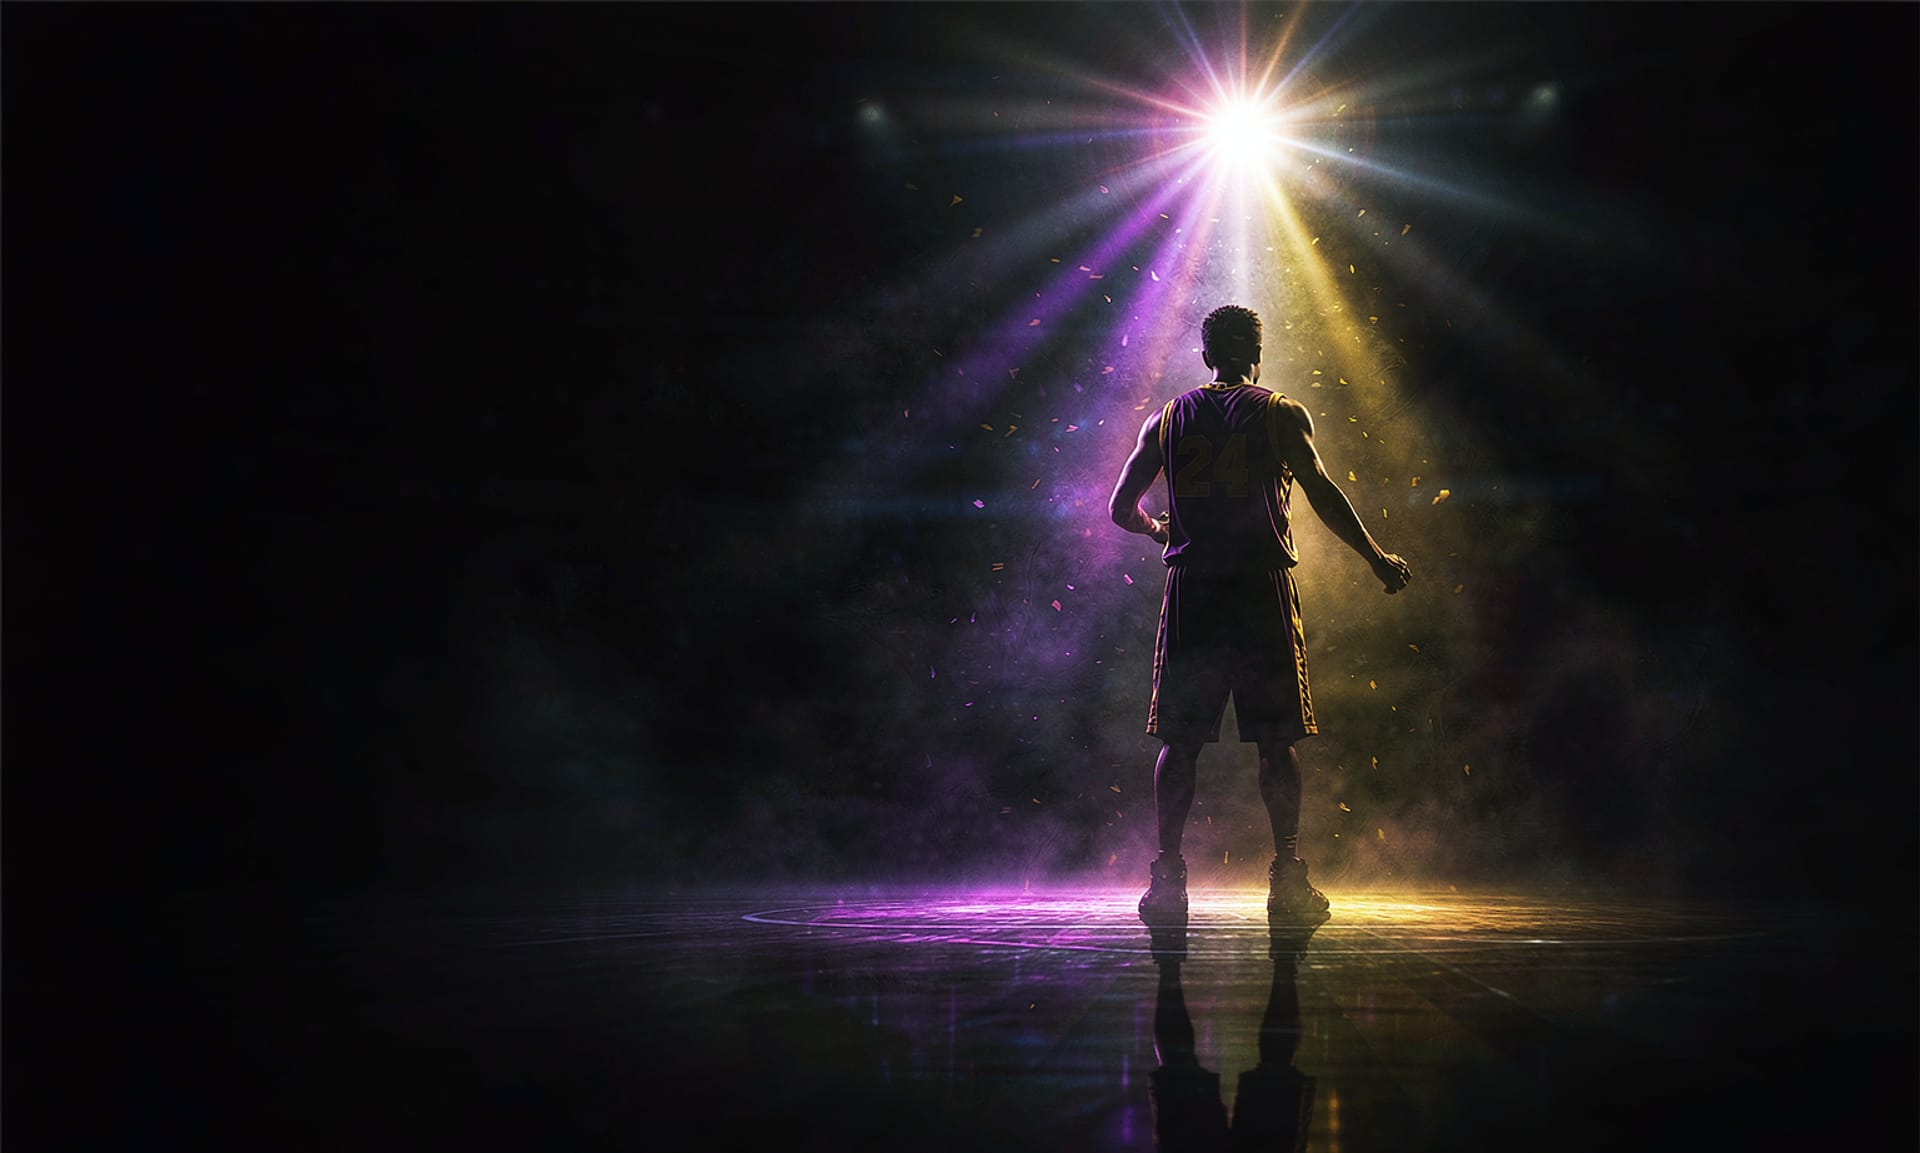
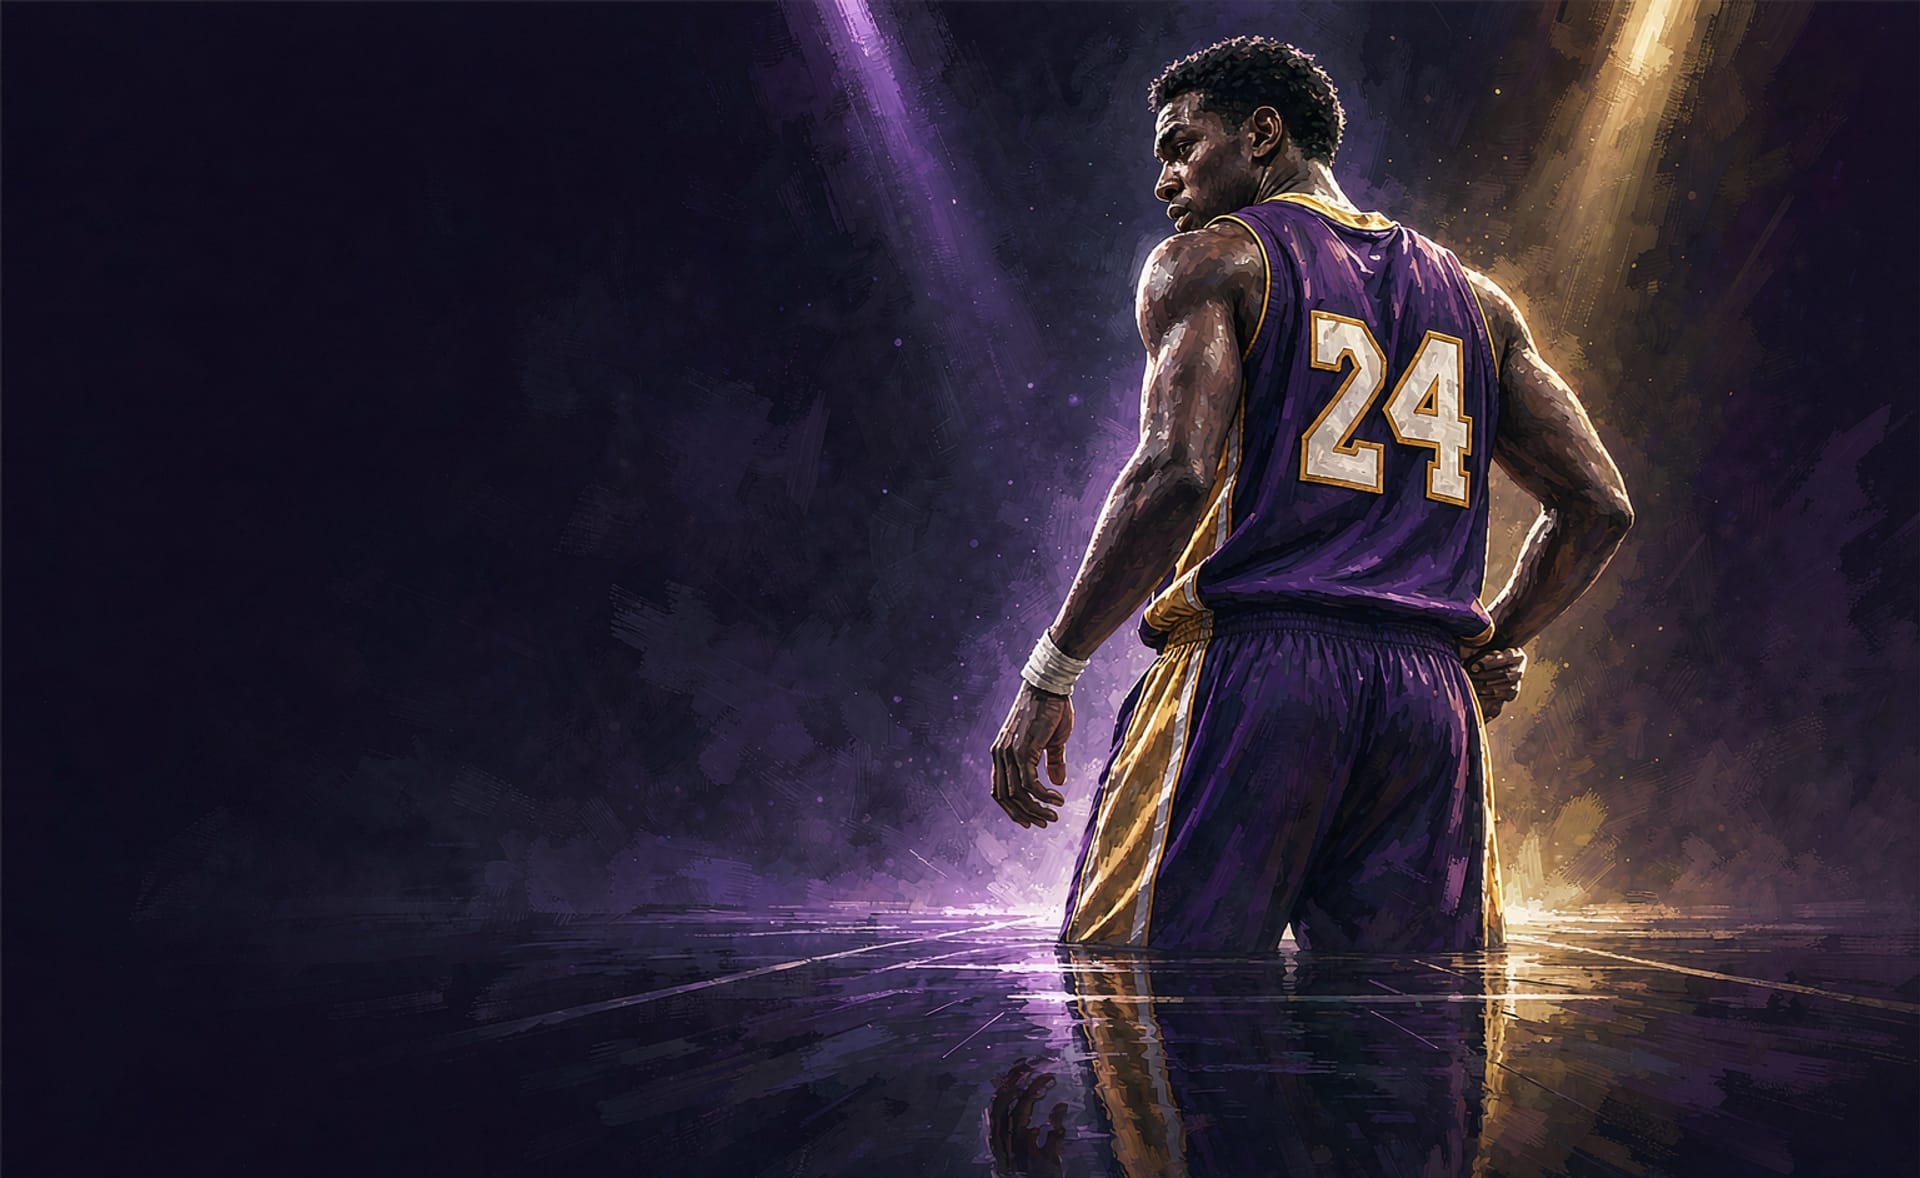
背景换成科比背影回头图；修掉 posts 数组双逗号导致的 11 个空条目；加载层文案改中文

diff --git a/assets/posts.js b/assets/posts.js
@@ -174,7 +174,7 @@ window.BLOG_POSTS = [
     cover: 'assets/covers/cover-23-red.jpg',
     bookCover: 'assets/covers/book-8-purple.jpg',
     book: { title: 'C Primer Plus', author: 'Stephen Prata', year: '2013', field: 'C/C++', rating: 5, note: '最稳的 C 入门书，讲清了每个语法背后的内存行为。' }
-  },,
+  },
   {
     slug: 'cpp-pointers-arrays',
     title: '数组和指针不是一回事：那些被 sizeof 骗过的时刻',
@@ -187,7 +187,7 @@ window.BLOG_POSTS = [
     cover: 'assets/covers/cover-33-green.jpg',
     bookCover: 'assets/covers/book-32-gold.jpg',
     book: { title: 'C++ Primer', author: 'Stanley Lippman', year: '2012', field: 'C/C++', rating: 5, note: '讲 C++ 最系统的一本，第 3、4 章把数组与指针的边界说得极清楚。' }
-  },,
+  },
   {
     slug: 'cpp-raii',
     title: 'RAII 与智能指针：C++ 里没有 finally，也不需要',
@@ -200,7 +200,7 @@ window.BLOG_POSTS = [
     cover: 'assets/covers/cover-06-purple.jpg',
     bookCover: 'assets/covers/book-21-silver.jpg',
     book: { title: 'Effective Modern C++', author: 'Scott Meyers', year: '2014', field: 'C/C++', rating: 5, note: '第 4 章讲智能指针，把所有权语义讲成了决策树。' }
-  },,
+  },
   {
     slug: 'cpp-build',
     title: '从 .cpp 到可执行文件：undefined reference 到底在骂谁',
@@ -213,7 +213,7 @@ window.BLOG_POSTS = [
     cover: 'assets/covers/cover-books.jpg',
     bookCover: 'assets/covers/book-34-power.jpg',
     book: { title: '深入理解计算机系统', author: 'Randal Bryant', year: '2016', field: 'C/C++', rating: 5, note: '第 7 章链接，把 undefined reference 的来龙去脉讲透了。' }
-  },,
+  },
   {
     slug: 'py-containers',
     title: 'list、dict、set 的底层：为什么 dict 查找是 O(1)',
@@ -226,7 +226,7 @@ window.BLOG_POSTS = [
     cover: 'assets/covers/cover-night-court.jpg',
     bookCover: 'assets/covers/book-3-blue.jpg',
     book: { title: 'Python 编程：从入门到实践', author: 'Eric Matthes', year: '2019', field: 'Python', rating: 5, note: '第 3-4 章列容器，配着这张复杂度表看会通透很多。' }
-  },,
+  },
   {
     slug: 'py-generators',
     title: '生成器与迭代器：yield 到底暂停了什么',
@@ -239,7 +239,7 @@ window.BLOG_POSTS = [
     cover: 'assets/covers/cover-street-hoop.jpg',
     bookCover: 'assets/covers/book-32-gold.jpg',
     book: { title: '流畅的 Python', author: 'Luciano Ramalho', year: '2022', field: 'Python', rating: 5, note: '第 17 章迭代器与生成器，是目前讲得最深的中文可读材料。' }
-  },,
+  },
   {
     slug: 'py-decorators',
     title: '装饰器：从闭包到带参数的装饰器，一次讲透',
@@ -252,7 +252,7 @@ window.BLOG_POSTS = [
     cover: 'assets/covers/cover-23-red.jpg',
     bookCover: 'assets/covers/book-21-silver.jpg',
     book: { title: 'Python Cookbook', author: 'David Beazley', year: '2013', field: 'Python', rating: 5, note: '第 9 章元编程，装饰器写法的权威参考。' }
-  },,
+  },
   {
     slug: 'py-gil',
     title: 'GIL 与并发选型：线程、进程、asyncio 到底选哪个',
@@ -265,7 +265,7 @@ window.BLOG_POSTS = [
     cover: 'assets/covers/cover-33-green.jpg',
     bookCover: 'assets/covers/book-41-navy.jpg',
     book: { title: 'Python 高性能编程', author: 'Micha Gorelick', year: '2020', field: 'Python', rating: 4, note: '把 GIL、多进程、异步的边界画得很清楚，配实测数据看更直观。' }
-  },,
+  },
   {
     slug: 'ai-prompt',
     title: '提示词工程：把「说清楚」变成可复用的模板',
@@ -278,7 +278,7 @@ window.BLOG_POSTS = [
     cover: 'assets/covers/cover-06-purple.jpg',
     bookCover: 'assets/covers/book-8-purple.jpg',
     book: { title: 'Prompt Engineering Guide', author: 'OpenAI 官方文档', year: '2024', field: 'AI', rating: 5, note: '最权威的入门材料，重点是里面的失败案例。' }
-  },,
+  },
   {
     slug: 'ai-rag',
     title: 'RAG 不是「把文档丢进去」：切块、检索、重排的细节决定效果',
@@ -291,7 +291,7 @@ window.BLOG_POSTS = [
     cover: 'assets/covers/cover-books.jpg',
     bookCover: 'assets/covers/book-32-gold.jpg',
     book: { title: 'Contextual Retrieval', author: 'Anthropic 技术报告', year: '2024', field: 'AI', rating: 5, note: '讲清了「切块加语境」和「混合检索」各自的收益量级。' }
-  },,
+  },
   {
     slug: 'ai-agent',
     title: 'Agent 的本质是一个循环：工具、观察、终止条件',
@@ -304,7 +304,7 @@ window.BLOG_POSTS = [
     cover: 'assets/covers/cover-night-court.jpg',
     bookCover: 'assets/covers/book-34-power.jpg',
     book: { title: 'ReAct: Synergizing Reasoning and Acting', author: 'Yao et al.', year: '2022', field: 'AI', rating: 5, note: 'Agent 循环的原始论文，短小但把「推理-行动」交替说透了。' }
-  },,
+  },
   {
     slug: 'ai-workflow',
     title: '把 AI 放进日常工作流：三个真用得上的场景和一条铁律',

diff --git a/assets/style.css b/assets/style.css
@@ -1965,7 +1965,7 @@ a.tag:hover { color: var(--accent); border-color: color-mix(in srgb, var(--accen
 /* 1. 页面底色：纯暗色 + 极淡的紫金辉光，不再铺照片 */
 body {
   /* 科比球场图做背景：图挂了自动退回纯色 */
-  background: url("bg-court.jpg") center top / cover no-repeat fixed, var(--bg);
+  background: url("bg-kobe.jpg") center top / cover no-repeat fixed, var(--bg);
 }
 body::before {
   background:
@@ -1983,7 +1983,7 @@ body::before {
   isolation: isolate;
   background-image: url("bg-kobe.jpg");
   background-size: cover;
-  background-position: center 32%;
+  background-position: center 6%;
   background-repeat: no-repeat;
   border-bottom: 1px solid var(--line-2);
 }

diff --git a/index.html b/index.html
@@ -1002,7 +1002,7 @@ function isSelfTarget(baseUrl) {
       </svg>
     </div>
     <div class="loader-meta">
-      <b>MAMBA MODE</b>
+      <b>曼巴模式</b>
       <span>加载中…</span>
     </div>
     <div class="loader-bar" aria-hidden="true"><i></i></div>
